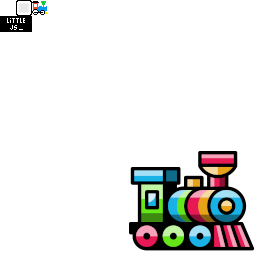
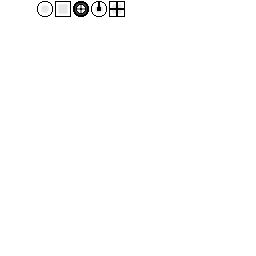
expermient with box2d physics and sprite tiles

Changed region(s): [[0.5, 0.5625, 1.0, 1.0], [0.0, 0.0, 0.5, 0.125]]

diff --git a/src/game.ts b/src/game.ts
@@ -1,0 +1,83 @@
+import * as LJS from "littlejsengine";
+import { vec2 } from "littlejsengine";
+
+export class Game {
+  start(): void {
+    LJS.setShowSplashScreen(true);
+
+    LJS.engineInit(
+      this._gameInit.bind(this),
+      this._gameUpdate.bind(this),
+      this._gameUpdatePost.bind(this),
+      this._gameRender.bind(this),
+      this._gameRenderPost.bind(this),
+      ["tiles.png"],
+    );
+  }
+
+  /**
+   * called once after the engine starts up
+   * setup the game
+   */
+  private async _gameInit(): Promise<void> {
+    // start up LittleJS Box2D plugin
+    await LJS.box2dInit();
+
+    // michael: organize
+    LJS.setCameraPos(vec2(0, 0));
+
+    const squareTileInfo = LJS.tile(0, 16, 0, 1);
+
+    const b2Obj = new LJS.Box2dObject(
+      vec2(0, 0),
+      vec2(1, 1),
+      //   undefined,
+      squareTileInfo,
+      0,
+      LJS.WHITE,
+      LJS.box2d.bodyTypeDynamic,
+    );
+    b2Obj.drawSize = b2Obj.size.scale(1.02); // slightly enlarge to cover gaps
+    b2Obj.addBox(b2Obj.size);
+    // michael: remove
+
+    // michael: remove
+    // eslint-disable-next-line @typescript-eslint/no-explicit-any --- temp debugging in chrome console
+    (window as unknown as any).b2Obj = b2Obj;
+
+    // to simulate friction on the ground
+    // b2Obj.setLinearDamping(0.1); // icey
+    // b2Obj.setLinearDamping(0.5); // slippery
+    b2Obj.setLinearDamping(1); // slide
+    // b2Obj.setLinearDamping(2); // scootch
+    // b2Obj.setLinearDamping(3); // budge
+
+    // figuring out physics
+    // b2Obj.applyAcceleration(vec2(1)); // ignores mass
+    b2Obj.applyForce(vec2(100)); // does not ignore mass
+  }
+
+  /**
+   * called every frame at 60 frames per second
+   * handle input and update the game state
+   */
+  private _gameUpdate(): void {}
+
+  /**
+   * called after physics and objects are updated
+   * setup camera and prepare for render
+   */
+  private _gameUpdatePost(): void {}
+
+  /**
+   * called before objects are rendered
+   * draw any background effects that appear behind objects
+   */
+  private _gameRender(): void {}
+
+  /**
+   * called after objects are rendered
+   * draw effects or hud that appear above all objects
+   */
+  private _gameRenderPost(): void {}
+}

diff --git a/src/main.ts b/src/main.ts
@@ -1,52 +1,4 @@
-import {
-  box2dEngineInit,
-  drawTextScreen,
-  mainCanvasSize,
-  setShowSplashScreen,
-} from "littlejsengine";
+import { Game } from "./game";
 
-///////////////////////////////////////////////////////////////////////////////
-function gameInit() {
-  // called once after the engine starts up
-  // setup the game
-}
-
-///////////////////////////////////////////////////////////////////////////////
-function gameUpdate() {
-  // called every frame at 60 frames per second
-  // handle input and update the game state
-}
-
-///////////////////////////////////////////////////////////////////////////////
-function gameUpdatePost() {
-  // called after physics and objects are updated
-  // setup camera and prepare for render
-}
-
-///////////////////////////////////////////////////////////////////////////////
-function gameRender() {
-  // called before objects are rendered
-  // draw any background effects that appear behind objects
-}
-
-///////////////////////////////////////////////////////////////////////////////
-function gameRenderPost() {
-  // called after objects are rendered
-  // draw effects or hud that appear above all objects
-  drawTextScreen("Hello World!", mainCanvasSize.scale(0.5), 80);
-}
-
-///////////////////////////////////////////////////////////////////////////////
-
-// set things before engine starts
-setShowSplashScreen(true);
-
-// Startup LittleJS Engine
-box2dEngineInit(
-  gameInit,
-  gameUpdate,
-  gameUpdatePost,
-  gameRender,
-  gameRenderPost,
-  ["tiles.png"],
-);
+const game = new Game();
+game.start();

diff --git a/dev-notes.md b/dev-notes.md
@@ -1,5 +1,9 @@
 # dev notes
 
+## External Tools
+
+- https://www.pixilart.com/
+
 ## technology decisions
 
 ### vite
